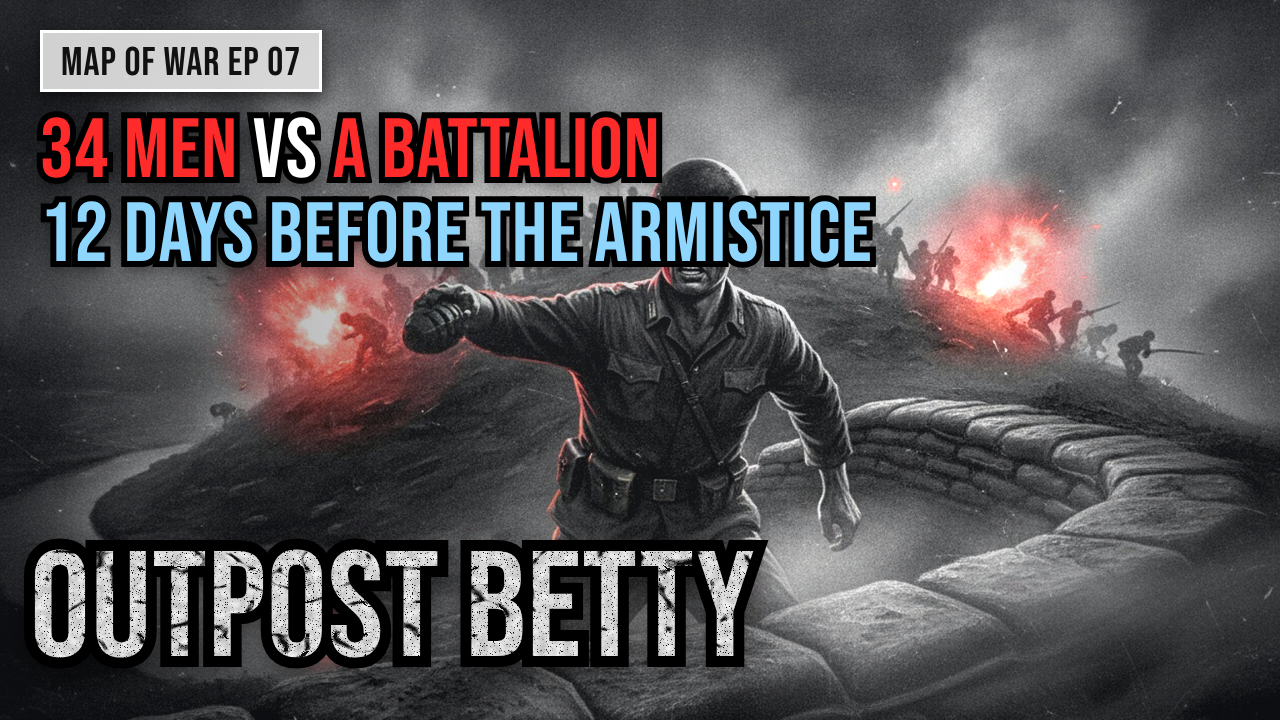
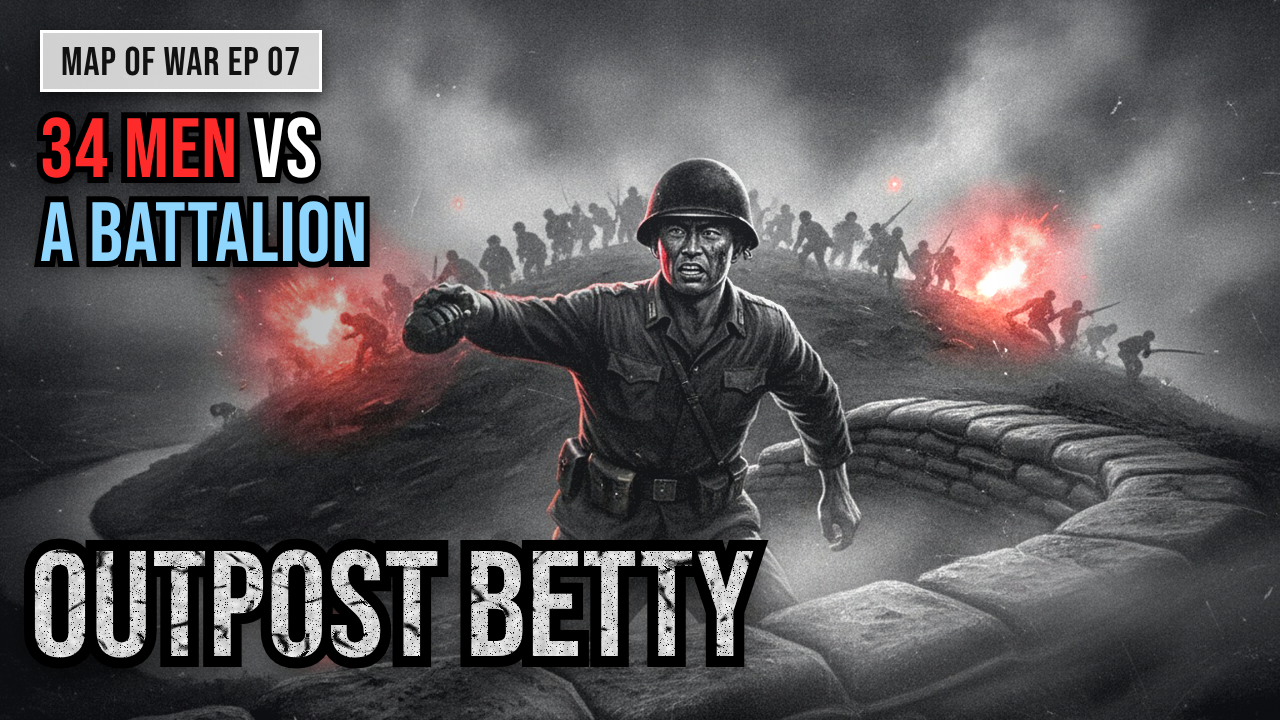
EP07 영문 썸네일: 카피를 짧은 두 줄로 줄여 얼굴이 보이게
Claude-Session: https://claude.ai/code/session_01KBUYY64NPWkAFAfkw5mnrv

Changed region(s): [[0.0312, 0.1528, 0.6875, 0.3972]]

diff --git a/remotion/Thumbnail.tsx b/remotion/Thumbnail.tsx
@@ -264,7 +264,7 @@ const REF_EN: Record<string, RefDef> = {
   jipyeong: { ep: "04", mid: [[["360° SURROUNDED", "r"]], [["BY ", "w"], ["4 DIVISIONS", "s"]]], key: "CHIPYONG-NI", keyStyle: "yellow" },
   chuncheon: { ep: "05", mid: [[["THE ONLY VICTORY", "w"]], [["ON DAY 1", "r"]]], key: "CHUNCHEON", keyStyle: "yellow" },
   jangjin: { ep: "06", mid: [[["-40°F FREEZE:", "s"]], [["BREAKING ", "w"], ["120,000 ENEMY", "r"]]], key: "CHOSIN RESERVOIR", keyStyle: "ice" },
-  betty: { ep: "07", mid: [[["34 MEN", "r"], [" VS ", "w"], ["A BATTALION", "r"]], [["12 DAYS BEFORE THE ARMISTICE", "s"]]], key: "OUTPOST BETTY", keyStyle: "stone" },
+  betty: { ep: "07", mid: [[["34 MEN", "r"], [" VS", "w"]], [["A BATTALION", "s"]]], key: "OUTPOST BETTY", keyStyle: "stone" },
 };
 const REF: Record<string, RefDef> = {
   yongmunsan: { ep: "01", mid: [[["중공군 ", "w"], ["3개 사단", "r"], [" 격멸,", "w"]], [["1개 연대의 기적", "s"]]], key: "용문산 전투", keyStyle: "yellow" },
